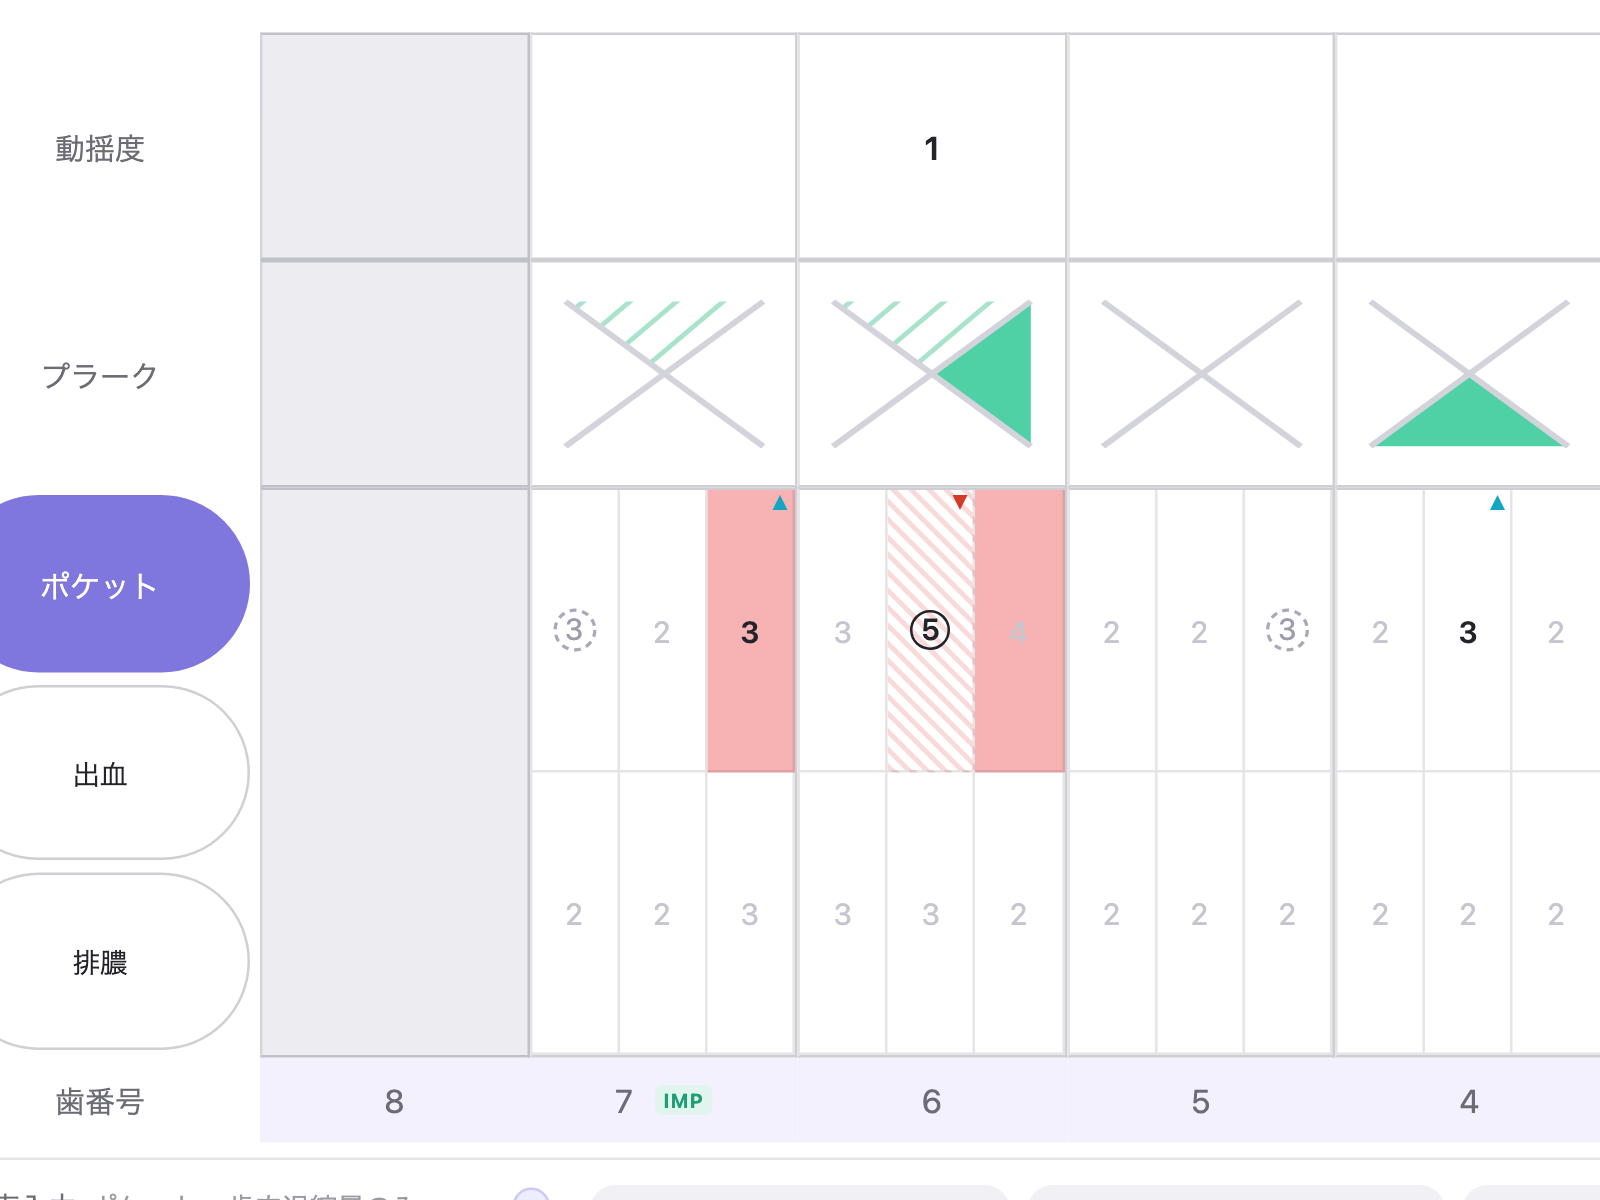
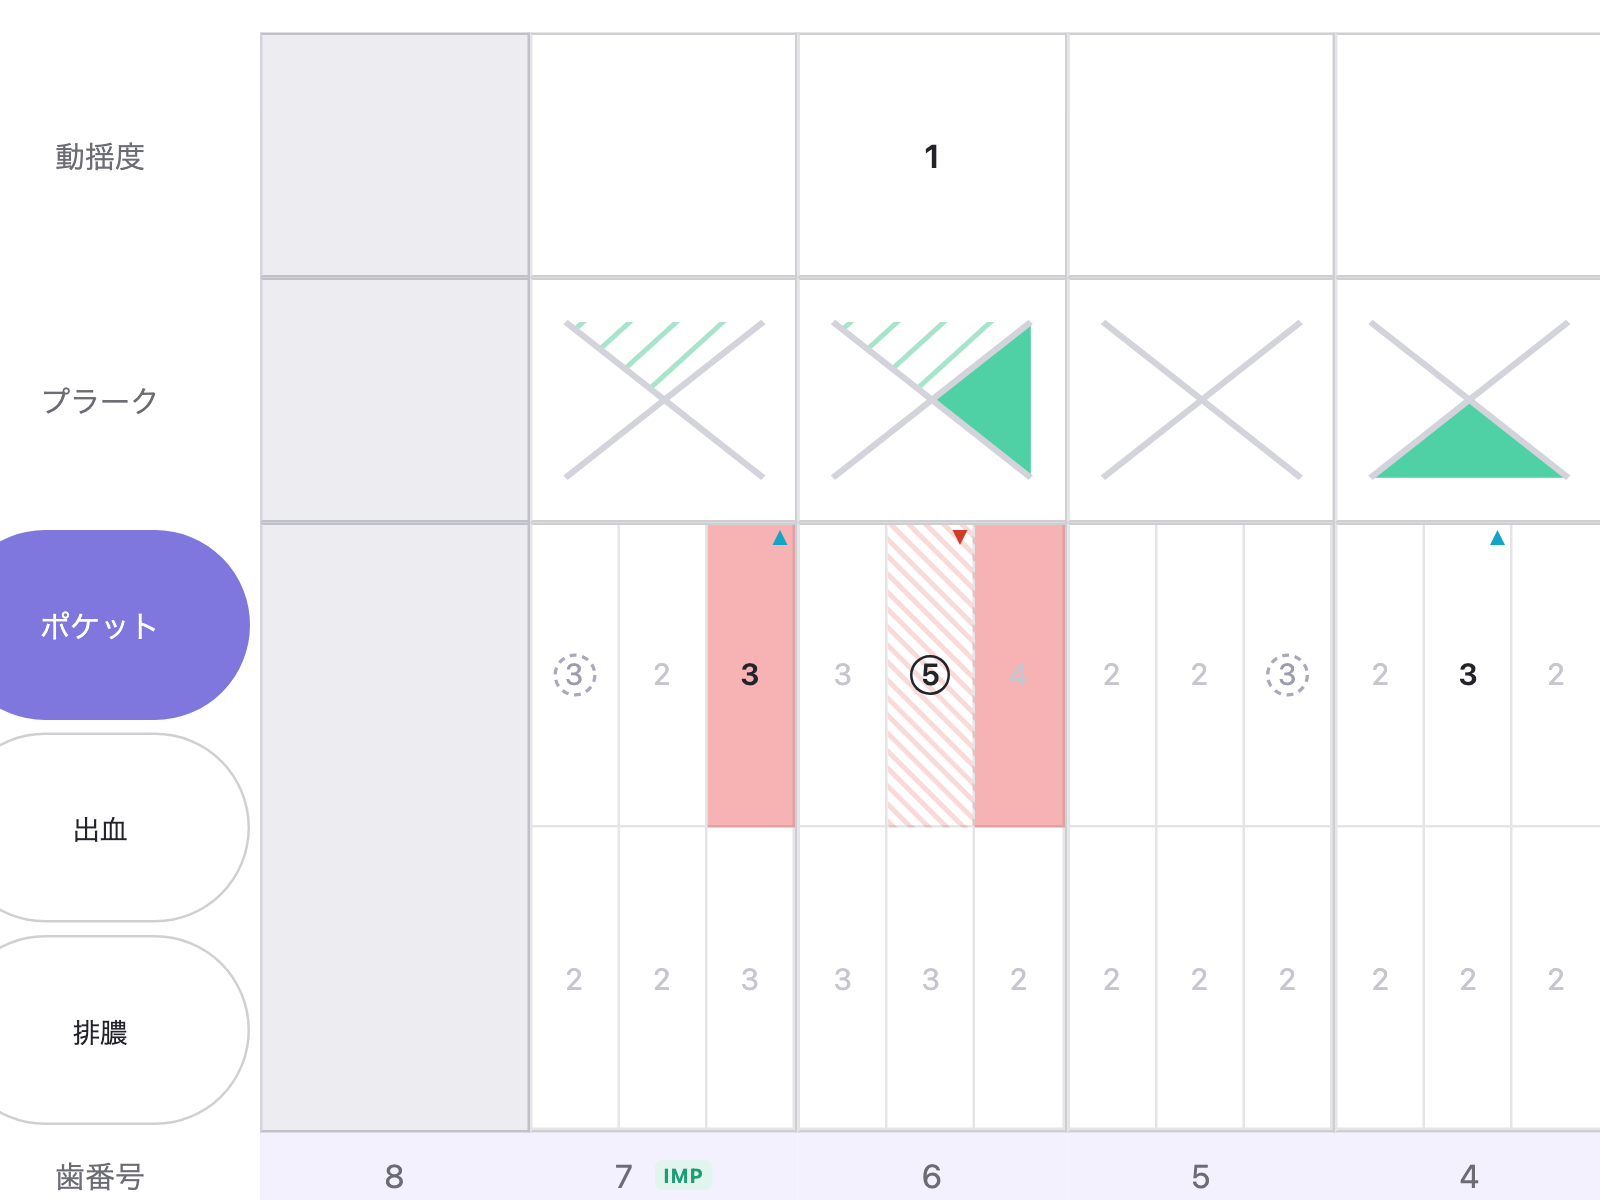
デモのキャプチャを最新に差し替え、音声まわりの説明を更新

diff --git a/index.html b/index.html
@@ -433,10 +433,10 @@ footer ul .soon-li{color:var(--hint)}footer ul .soon-li small{font-size:9.5px;bo
         <p>「出血」を押して、出血しているところを<b>続けてタップ</b>。排膿も同じ操作です。プラーク・動揺度・根分岐部は、値を直接タップするだけ。<b>歯の状態の設定まで同じ操作</b>なので、項目ごとに覚え直すことがありません。</p>
       </div>
       <div>
-        <div class="pdfshot"><img src="img/dm_voicezoom.png" alt="音声入力をオンにした検査画面の拡大。AI音声入力ボタンと、認識された「右上6番 頬側 3・2・3」の表示" loading="lazy"></div>
+        <div class="pdfshot"><img src="img/dm_voicezoom.png" alt="検査画面の音声まわりの拡大。AI音声入力ボタンと、ミュート・音声設定・削除のボタン" loading="lazy"></div>
         <h4 style="margin-top:14px">声で入れる ― ポケット・歯肉退縮量</h4>
         <p>「<b>3、2、3</b>」と測った値を続けて言うだけ。カーソルは次の測定点へ自動で進みます。歯を指定したいときは「6番 3、2、3」、1点だけ直したいときは「6番の遠心頬側に 3」。</p>
-        <p style="margin-top:8px">入った値は<b>効果音と画面表示</b>で確認します（読み上げは行いません）。違っていれば言い直すか、テンキーからそのまま直せます。</p>
+        <p style="margin-top:8px">入った値は<b>効果音と画面表示</b>で確認します（読み上げは行いません）。違っていれば言い直すか、テンキーからそのまま直せます。会話を拾わせたくないときは<b>ミュート</b>、マイクの選びなおしや入力テストは<b>音声設定</b>から。</p>
       </div>
     </div>
 
@@ -572,7 +572,7 @@ footer ul .soon-li{color:var(--hint)}footer ul .soon-li small{font-size:9.5px;bo
       <p style="font-size:12.5px;color:var(--hint);margin:14px 0 0">集計は入力のたびにその場で更新されます。深さ分布は<b>軽度・中等度・重度で色分け</b>されるため、患者さんに見せながら説明できます。検査表は保存のほか、<b>PDFとして出力</b>できます。</p>
       <div class="shotgrid">
         <div>
-          <div class="ipad sm"><img src="img/dm_probing_rec.png" alt="全項目を表示した検査画面。動揺度・根分岐部・プラーク・ポケット・出血・排膿・歯肉退縮量" loading="lazy"></div>
+          <div class="ipad sm"><img src="img/dm_probing_rec.png" alt="全項目を表示した検査画面。動揺度・根分岐部・プラーク・ポケット（出血・排膿）・歯肉退縮量" loading="lazy"></div>
           <div class="cap">記録する項目は医院ごとに選べます（動揺度・根分岐部・プラーク・ポケット・出血・排膿・歯肉退縮量）</div>
         </div>
         <div>
